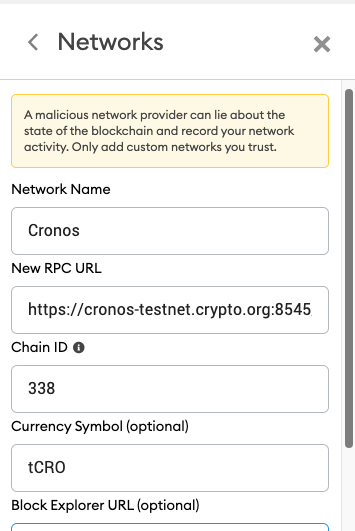
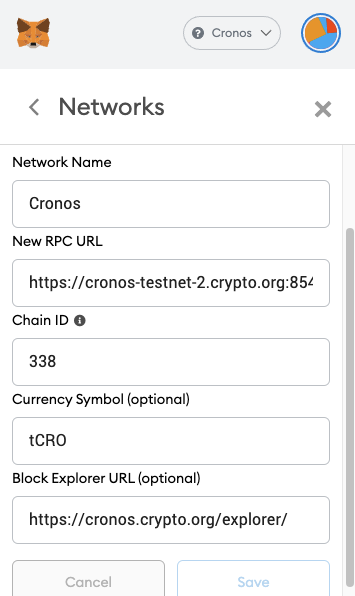
338-2

diff --git a/docs/getting-started/cronos-testnet.md b/docs/getting-started/cronos-testnet.md
@@ -3,13 +3,13 @@ meta:
   - name: "title"
     content: Cronos | Crypto.org EVM Chain | Running Nodes On Testnet
   - name: "description"
-    content: Learn how to setup a Validator or a full node on Crypto.org Cronos testnet cronostestnet_338-1 in this technical documentation.
+    content: Learn how to setup a Validator or a full node on Crypto.org Cronos testnet cronostestnet_338-2 in this technical documentation.
   - name: "og:title"
     content: Cronos | Crypto.org EVM Chain | Running Nodes On Testnet
   - name: "og:type"
     content: Website
   - name: "og:description"
-    content: Learn how to setup a Validator or a full node on Crypto.org Cronos testnet cronostestnet_338-1 in this technical documentation.
+    content: Learn how to setup a Validator or a full node on Crypto.org Cronos testnet cronostestnet_338-2 in this technical documentation.
   - name: "og:image"
     content: https://cronos.crypto.org/og-image.png
   - name: "twitter:title"
@@ -19,7 +19,7 @@ meta:
   - name: "twitter:card"
     content: summary_large_image
   - name: "twitter:description"
-    content: Learn how to setup a Validator or a full node on Crypto.org Cronos testnet cronostestnet_338-1 in this technical documentation.
+    content: Learn how to setup a Validator or a full node on Crypto.org Cronos testnet cronostestnet_338-2 in this technical documentation.
   - name: "twitter:image"
     content: https://cronos.crypto.org/og-image.png
 canonicalUrl: https://cronos.crypto.org/docs/getting-started/cronos-testnet.html
@@ -29,7 +29,7 @@ canonicalUrl: https://cronos.crypto.org/docs/getting-started/cronos-testnet.html
 
 The latest Crypto.org Chain Testnet has been named as **Cronos**.
 
-This is a detailed documentation for setting up a Validator or a full node on Crypto.org Cronos testnet `cronostestnet_338-1`.
+This is a detailed documentation for setting up a Validator or a full node on Crypto.org Cronos testnet `cronostestnet_338-2`.
 
 ## Pre-requisites
 
@@ -52,20 +52,20 @@ The following is the minimal setup for a **validator node** / **full node**.
 :::
 
 To simplify the following step, we will be using **Linux** (Intel x86) for illustration. Binary for
-**Mac** ([Intel x86](https://github.com/crypto-org-chain/cronos/releases/download/v0.5.2/cronos_0.5.2_Darwin_x86_64.tar.gz) / [M1](https://github.com/crypto-org-chain/cronos/releases/download/v0.5.2/cronos_0.5.2_Darwin_arm64.tar.gz))and [Windows](https://github.com/crypto-org-chain/cronos/releases/download/v0.5.2/cronos_0.5.2_Windows_x86_64.zip) are also available.
+**Mac** ([Intel x86](https://github.com/crypto-org-chain/cronos/releases/download/v0.5.4-testnet/cronos_0.5.4-testnet_Darwin_x86_64.tar.gz) / [M1](https://github.com/crypto-org-chain/cronos/releases/download/v0.5.4-testnet/cronos_0.5.4-testnet_Darwin_arm64.tar.gz))and [Windows](https://github.com/crypto-org-chain/cronos/releases/download/v0.5.4-testnet/cronos_0.5.4-testnet_Windows_x86_64.zip) are also available.
 
 - To install released **Cronos testnet binaries** from github:
 
   ```bash
-  $ curl -LOJ https://github.com/crypto-org-chain/cronos/releases/download/v0.5.2/cronos_0.5.2_Linux_x86_64.tar.gz
-  $ tar -zxvf cronos_0.5.2_Linux_x86_64.tar.gz
+  $ curl -LOJ https://github.com/crypto-org-chain/cronos/releases/download/v0.5.4-testnet/cronos_0.5.4-testnet_Linux_x86_64.tar.gz
+  $ tar -zxvf cronos_0.5.4-testnet_Linux_x86_64.tar.gz
   ```
 
   Afterward, you can check the version of `cronosd` by
 
   ```bash
   $ ./cronosd version
-  0.5.2
+  0.5.4-testnet
   ```
 
 ## Step 2. Configure `cronosd`
@@ -73,7 +73,7 @@ To simplify the following step, we will be using **Linux** (Intel x86) for illus
 
 ### Step 2-0 (Optional) Clean up the old blockchain data
 
-- If you have joined `cronostestnet-338` before, you would have to clean up the old blockchain data and start over again, it can be done by running:
+- If you have joined `cronostestnet_338-1` before, you would have to clean up the old blockchain data and start over again, it can be done by running:
 
   ```bash
   $ ./cronosd unsafe-reset-all
@@ -92,7 +92,7 @@ Before kick-starting your node, we will have to configure your node so that it c
 
 
   ```bash
-    $ ./cronosd init [moniker] --chain-id cronostestnet_338-1
+    $ ./cronosd init [moniker] --chain-id cronostestnet_338-2
   ```
 
 
@@ -103,7 +103,7 @@ Before kick-starting your node, we will have to configure your node so that it c
 
 
   ```bash
-    $ ./cronosd init pegasus-node --chain-id cronostestnet_338-1
+    $ ./cronosd init pegasus-node --chain-id cronostestnet_338-2
   ```
 
 
@@ -121,7 +121,7 @@ Before kick-starting your node, we will have to configure your node so that it c
 - Download and replace the Cronos Testnet `genesis.json` by:
 
   ```bash
-  $ curl https://raw.githubusercontent.com/crypto-org-chain/cronos-testnets/main/cronostestnet_338-1/genesis.json > ~/.cronos/config/genesis.json
+  $ curl https://raw.githubusercontent.com/crypto-org-chain/cronos-testnets/main/cronostestnet_338-2/genesis.json > ~/.cronos/config/genesis.json
   ```
 
 
@@ -129,7 +129,7 @@ Before kick-starting your node, we will have to configure your node so that it c
 
 
   ```bash
[2 lines of base64/hex data omitted]
 
   OK!
   ```
@@ -149,14 +149,14 @@ Before kick-starting your node, we will have to configure your node so that it c
 - In `~/.cronos/config/app.toml`, update minimum gas price to avoid [transaction spamming](https://github.com/cosmos/cosmos-sdk/issues/4527)
 
   ```bash
-  $ sed -i.bak -E 's#^(minimum-gas-prices[[:space:]]+=[[:space:]]+).*$#\1"0.025ibc/6B5A664BF0AF4F71B2F0BAA33141E2F1321242FBD5D19762F541EC971ACB0865"#' ~/.cronos/config/app.toml
+  $ sed -i.bak -E 's#^(minimum-gas-prices[[:space:]]+=[[:space:]]+).*$#\1"5000000000000basetcro"#' ~/.cronos/config/app.toml
   ```
 
 - For network configuration, in `~/.cronos/config/config.toml`, please modify the configurations of `persistent_peers`, `create_empty_blocks_interval` and `timeout_commit` by:
   ```bash
-  $ sed -i.bak -E 's#^(persistent_peers[[:space:]]+=[[:space:]]+).*$#\1"f34965195bf7e007c5694c8f5dbc902fce817852@13.213.254.205:26656,73fade66fc0870a073694588170407b513af6439@18.139.32.246:26656"#' ~/.cronos/config/config.toml
+  $ sed -i.bak -E 's#^(persistent_peers[[:space:]]+=[[:space:]]+).*$#\1"34b29d2db107518cb2a3aa13954bd73bb5ecebdb@52.77.30.18:26656,c0489b5d402a3f4b270703fb1acbd57fcbbc45f2@54.251.209.254:26656"#' ~/.cronos/config/config.toml
   $ sed -i.bak -E 's#^(create_empty_blocks_interval[[:space:]]+=[[:space:]]+).*$#\1"5s"#' ~/.cronos/config/config.toml
-  $ sed -i.bak -E 's#^(timeout_commit[[:space:]]+=[[:space:]]+).*$#\1"8s"#' ~/.cronos/config/config.toml
+  $ sed -i.bak -E 's#^(timeout_commit[[:space:]]+=[[:space:]]+).*$#\1"5s"#' ~/.cronos/config/config.toml
   ```
 
 ::: tip NOTE
@@ -181,7 +181,7 @@ Run the followings to create a new key. For example, you can create a key with t
   $ ./cronosd keys add Default
 ```
 
-You should obtain an address with `eth` prefix, e.g. `eth10u5mgfflasrfj9s94mt8l9yucrt2gzhcyt5tsg`. This will be the address for performing transactions.
+You should obtain an address with `eth` prefix, e.g. `tcrc10u5mgfflasrfj9s94mt8l9yucrt2gzhcyt5tsg`. This will be the address for performing transactions.
 
 ### Step 3-2. Obtain test token
 
@@ -191,7 +191,7 @@ Users can the [faucet](https://cronos.crypto.org/faucet) to obtain test tokens, 
 - Using the [address convention tool](./metamask.md#address-conventions).
 
 In case you have reached the daily limit on faucet , you can simply send a message on [Discord](https://discord.gg/pahqHz26q4) #request-tcro channel ,
-stating who you are and your `eth.....` address.
+stating who you are and your `0x...` address.
 
 ### Step 3-3. Run everything
 
@@ -266,7 +266,7 @@ It should begin fetching blocks from the other peers. Please wait until it is fu
 - One can check the current block height by querying the public full node by:
 
   ```bash
-  curl -s https://cronos-testnet.crypto.org:26657/commit | jq "{height: .result.signed_header.header.height}"
+  curl -s https://cronos-testnet-2.crypto.org:26657/commit | jq "{height: .result.signed_header.header.height}"
   ```
 
   and you can check your node's progress (in terms of block height) by
@@ -307,12 +307,12 @@ $ ./cronosd tx staking create-validator \
 --pubkey='{"@type":"/cosmos.crypto.ed25519.PubKey","key":"PUBLIC_KEY"}'  \
 --moniker="[The_id_of_your_node]" \
 --security-contact="[security contact email/contact method]" \
---chain-id="cronostestnet_338-1" \
+--chain-id="cronostestnet_338-2" \
 --commission-rate="0.10" \
 --commission-max-rate="0.20" \
 --commission-max-change-rate="0.01" \
 --min-self-delegation="1" \
---fees=5000ibc/6B5A664BF0AF4F71B2F0BAA33141E2F1321242FBD5D19762F541EC971ACB0865
+--fees=1000000000000000000basetcro
 
 {"body":{"messages":[{"@type":"/cosmos.staking.v1beta1.MsgCreateValidator"...}
 confirm transaction before signing and broadcasting [y/N]: y
@@ -343,7 +343,7 @@ To further check if the validator is signing blocks, kindly run this [script](ht
 
 ```bash
 $ curl -sSL https://raw.githubusercontent.com/crypto-com/chain-docs/master/docs/getting-started/assets/signature_checking/check-validator-up.sh | bash -s -- \
---tendermint-url https://cronos-testnet.crypto.org:26657 \
+--tendermint-url https://cronos-testnet-2.crypto.org:26657 \
 --pubkey $(cat ~/.cronos/config/priv_validator_key.json | jq -r '.pub_key.value')
 
 The validator is in the active validator set under the address  <YOUR_VALIDATOR_ADDRESS>
@@ -359,11 +359,11 @@ You can check your _transferable_ balance with the `balances` command under the 
 :::details Example: Check your address balance
 
 ```bash
-$ ./cronosd query bank balances eth1qsklxwt77qrxur494uvw07zjynu03dq9alwh37
+$ ./cronosd query bank balances tcrc1qsklxwt77qrxur494uvw07zjynu03dq9alwh37
 
 balances:
 - amount: "10005471622381693"
-  denom: ibc/6B5A664BF0AF4F71B2F0BAA33141E2F1321242FBD5D19762F541EC971ACB0865
+  denom: basetcro
 pagination:
   next_key: null
   total: "0"
@@ -395,7 +395,7 @@ $ ./cronosd query staking validators -o json | jq
 Where `"jailed": true` implies that the validator has been jailed. After the jailing period has passed, one can broadcast a `unjail` transaction to unjail the validator and resume its normal operations by
 
 ```bash
-$ ./cronosd tx slashing unjail --from [key_name] --chain-id "cronostestnet_338-1" --fees=5000ibc/6B5A664BF0AF4F71B2F0BAA33141E2F1321242FBD5D19762F541EC971ACB0865
+$ ./cronosd tx slashing unjail --from [key_name] --chain-id "cronostestnet_338-2" --fees=1000000000000000000basetcro
 
   {"body":{"messages":[{"@type":"/cosmos.slashing.v1beta1.MsgUnjail"...}]}
   confirm transaction before signing and broadcasting [y/N]: y
@@ -409,7 +409,7 @@ Congratulations! You've successfully set up a Testnet node and performed some ba
 
 
 
-- You can lookup data within the `cronostestnet_338-1` network by the [explorer](https://cronos-explorer.crypto.org/);
+- You can lookup data within the `cronostestnet_338-2` network by the [explorer](https://cronos-explorer.crypto.org/);
 
 - To interact with the blockchain, simply use the [test-token faucet](https://cronos.crypto.org/faucet) to obtain test CRO tokens for performing transactions on the **Cronos** testnet.
 

diff --git a/docs/getting-started/metamask.md b/docs/getting-started/metamask.md
@@ -40,8 +40,10 @@ First of all we would need to connect the MetaMask with the Cronos testnet netwo
     <img src="./assets/2.png" />
 
 - Insert the network name, for example "ethermint" and put 
-  - `https://cronos-testnet.crypto.org:8545/` for **New RPC URL**; and 
-  - `338` for **Chain ID** as below:
+  - `https://cronos-testnet－2.crypto.org:8545/` for **New RPC URL**; and 
+  - `338` for **Chain ID**, 
+  - tcro for the symble
+  - `https://cronos.crypto.org/explorer/` for the Block explorer URL as below:
 
     <img src="./assets/3.png" />
 
